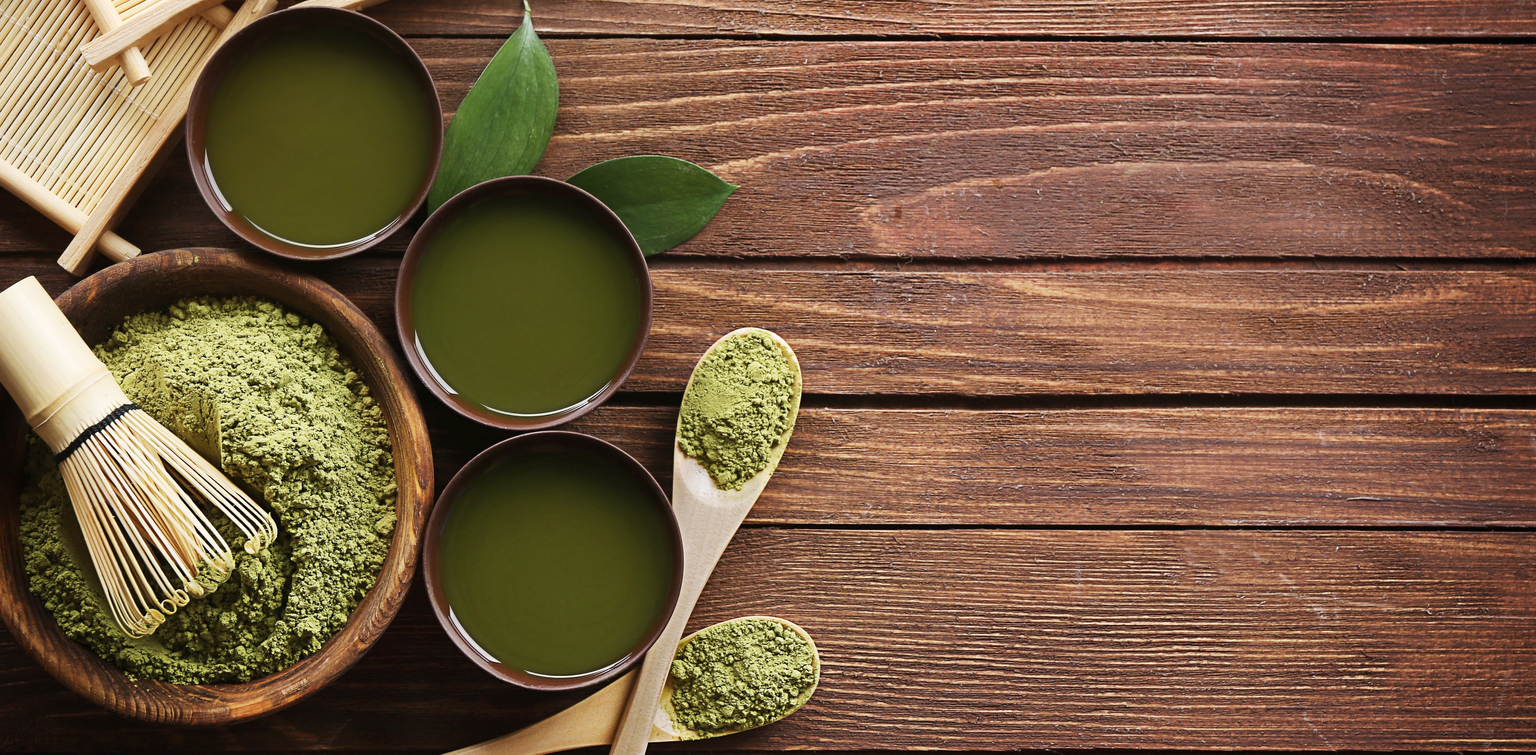
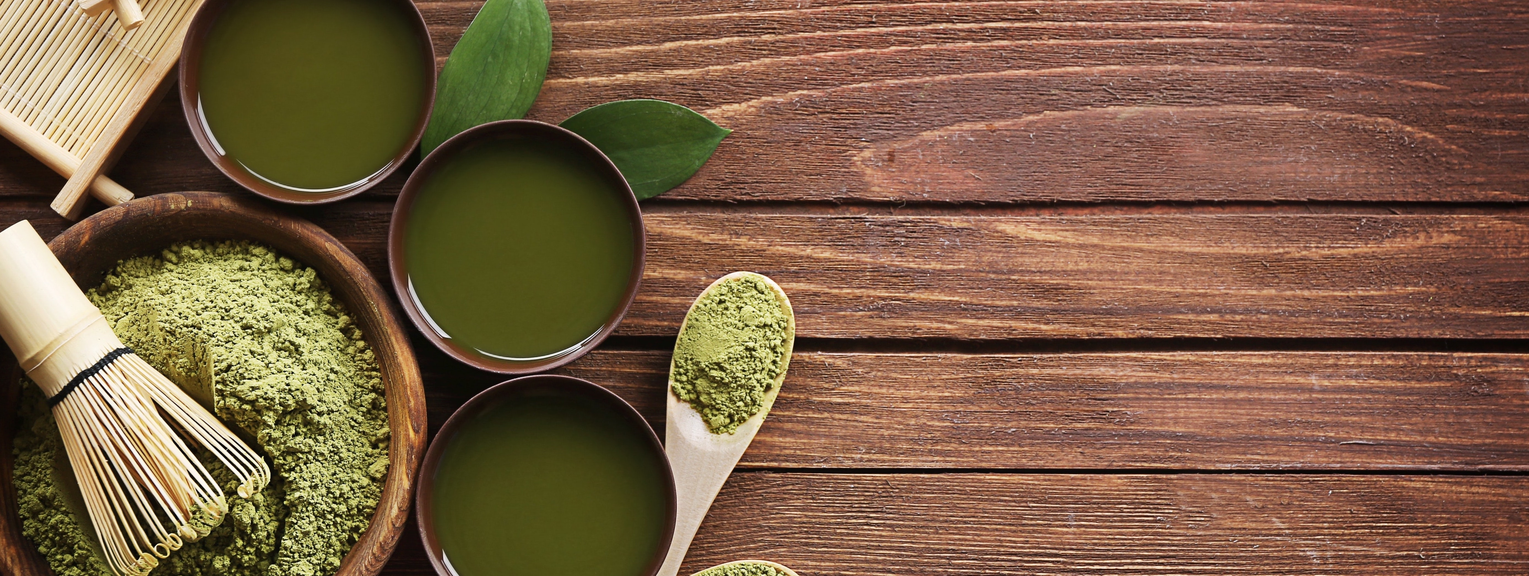
Change the PICHEAD

diff --git a/OutLayIndex.css b/OutLayIndex.css
@@ -60,7 +60,6 @@
     /* Edit the picture and "The Sixnatures" word of header */
     #PicHead {
         opacity: 1;
-        height: 600px;
         padding-left: 0%;
         padding-right: 0%;
     }
